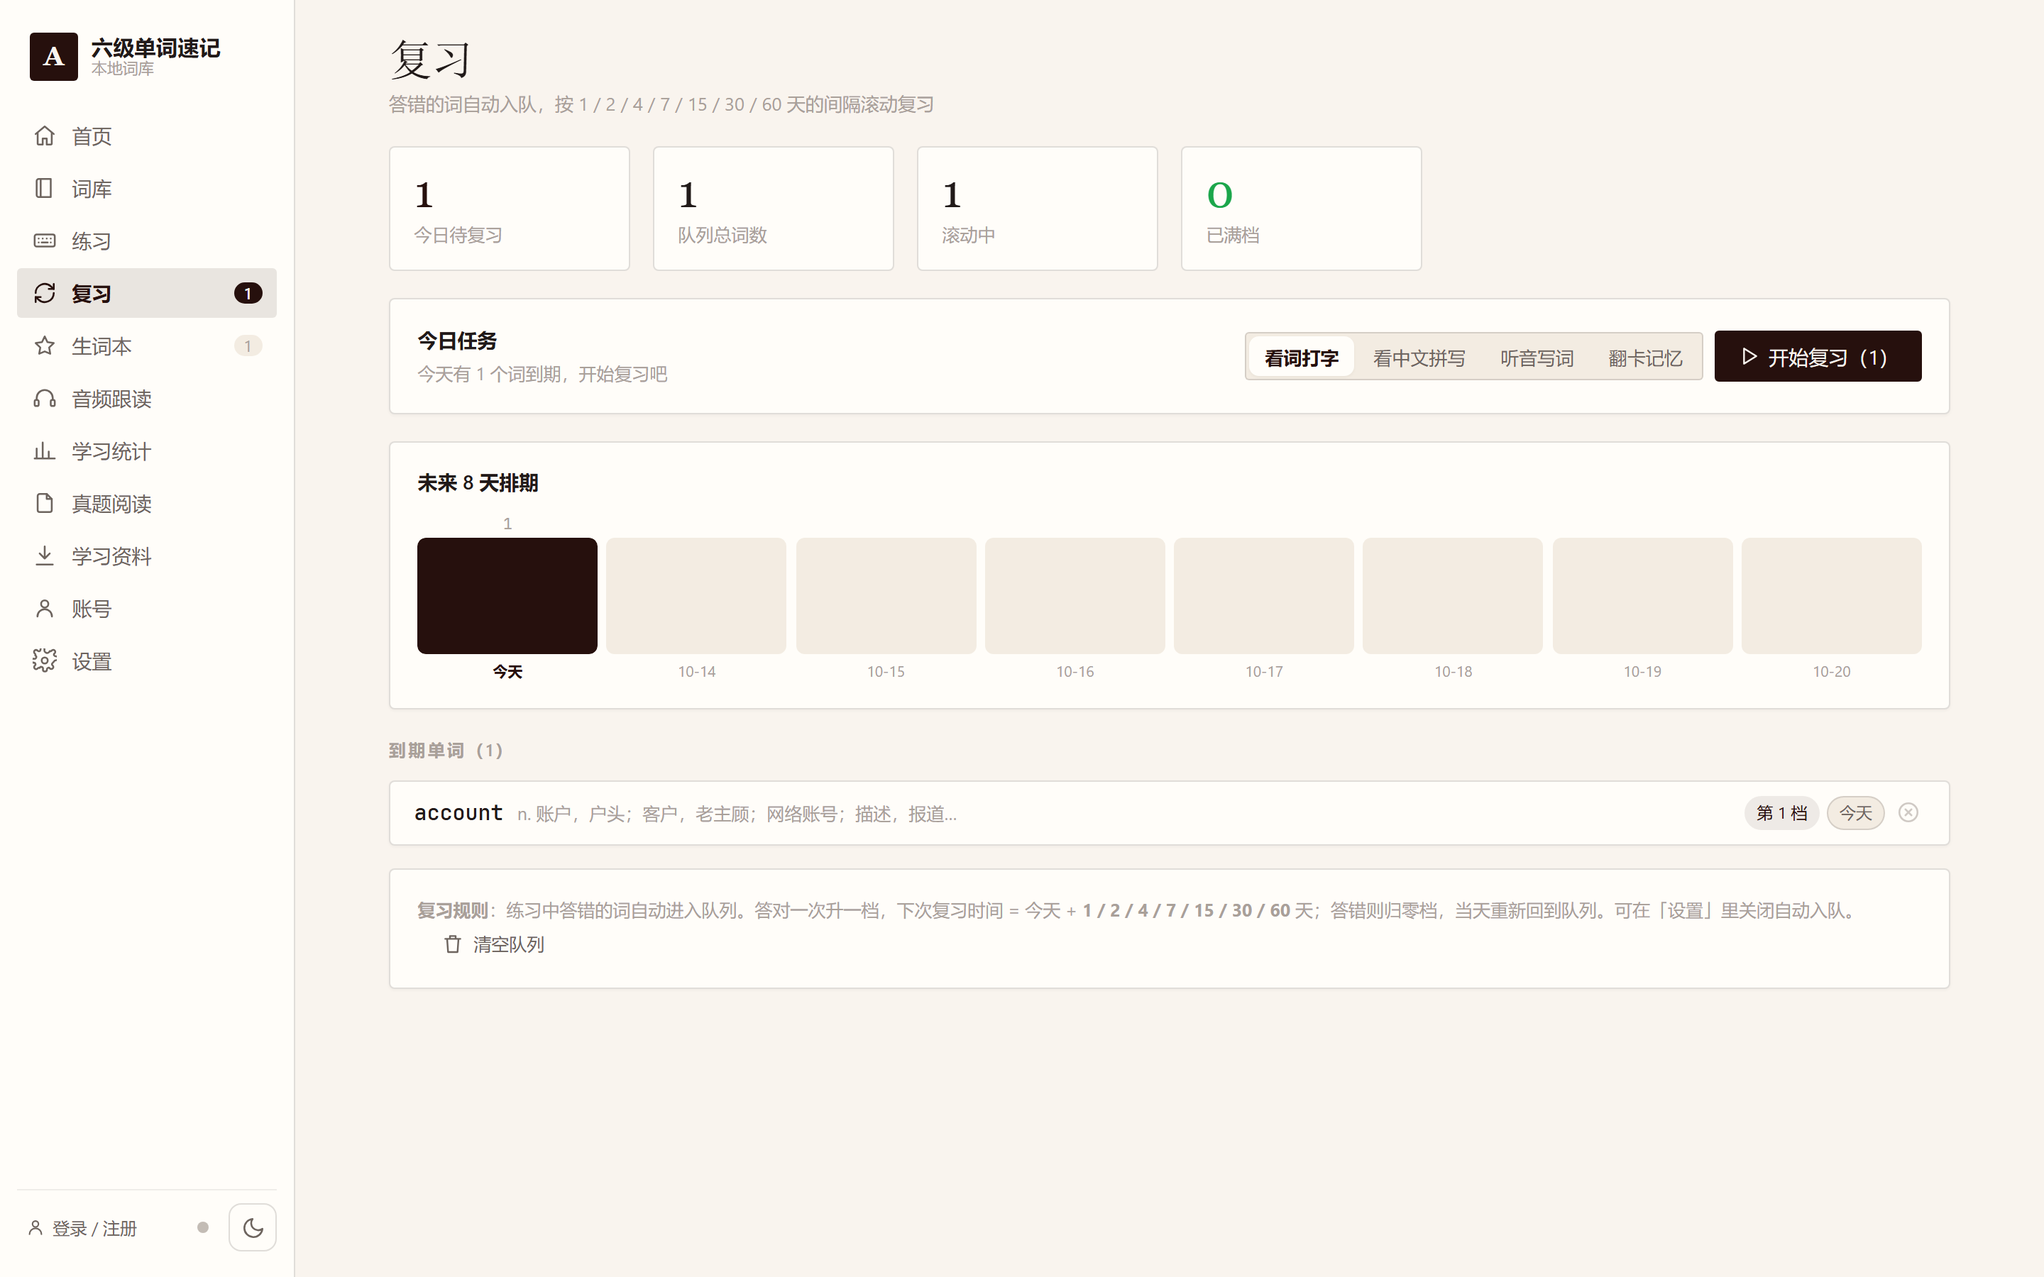
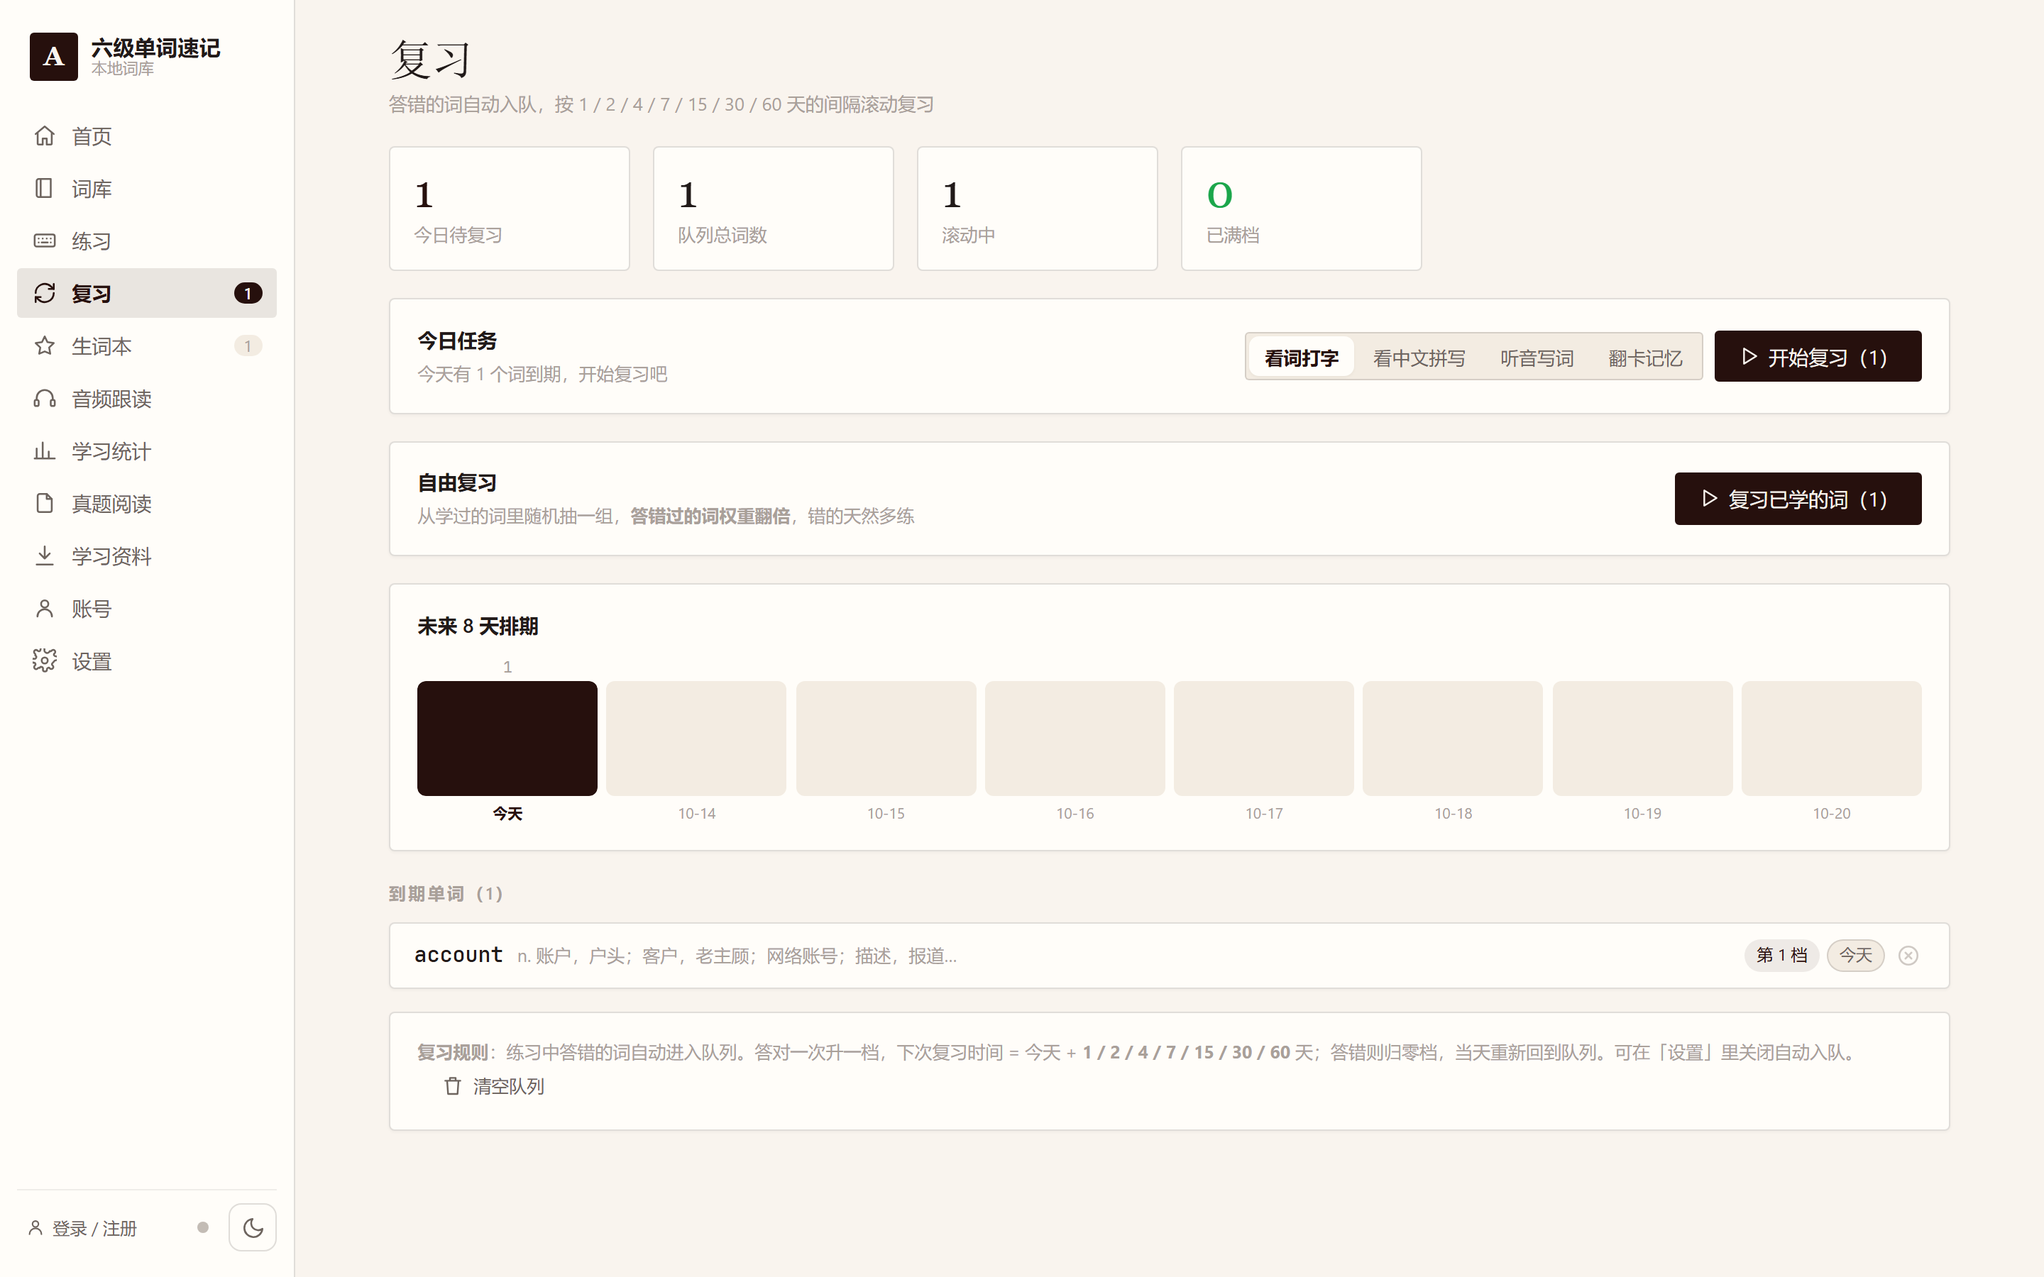
自动掌握机制：连对 3 次自动标记已掌握 + 词库进度未学计数 + 复习页自由复习已学的词（错词双倍权重）
- store.markRight 维护连对 streak，满 3 且开 autoMaster 设置则自动 master（答错/手动取消清零重来）
- 练习判分自动掌握时弹提示；设置页加开关
- 复习页两种状态各加「复习已学的词」入口 → /practice?src=collection&status=learned
- learned 池 = 全部已学(seen>0)的词，错过的词(w>0)进池两次 = 双倍权重，顺序模式按最近答错优先
- 词库进度条显示「已学 X / 未学 Y / P%」
- verify_practice 新增 I 段 11 项断言（77/77）

diff --git a/assets/js/views/srs.js b/assets/js/views/srs.js
@@ -29,6 +29,7 @@
 
     /* ---------- 空闲态 ---------- */
     if (!stats.total) {
+      var learnedN0 = TW.data.progressItems('learned').length;
       host.innerHTML = '<div class="wrap">' + TW.ui.pageHead('复习', '艾宾浩斯遗忘曲线复习队列') +
         '<div class="card card-pad">' + TW.ui.empty('复习队列还是空的') +
           '<div class="muted small" style="text-align:center;max-width:560px;margin:0 auto 1rem">' +
@@ -39,7 +40,17 @@
             '<button class="btn primary" id="sr-go-practice">' + TW.icon('play', 16) + ' 去练习</button>' +
             '<button class="btn" id="sr-import">' + TW.icon('download', 16) + ' 导入生词本里的错词</button>' +
           '</div>' +
-        '</div></div>';
+        '</div>' +
+        (learnedN0
+          ? '<div class="card card-pad" style="margin-top:1.2rem">' +
+              '<div class="row" style="justify-content:space-between;flex-wrap:wrap;gap:.6rem">' +
+                '<div><div class="card-title">自由复习</div>' +
+                  '<div class="small muted">从学过的词里随机抽一组，答错过的词权重翻倍</div></div>' +
+                '<button class="btn primary" id="sr-free-learned0">' + TW.icon('play', 16) +
+                  ' 复习已学的词（' + learnedN0 + '）</button>' +
+              '</div></div>'
+          : '') +
+        '</div>';
       bindEmpty(host);
       return;
     }
@@ -77,6 +88,28 @@
       return '<button data-mode="' + m.id + '" class="' + (mode === m.id ? 'active' : '') + '">' + m.name + '</button>';
     }).join('');
 
+    /* 自由复习：已学过的词（练过就算），错过的词双倍权重多练（sunfleeting 要求） */
+    var learnedN = TW.data.progressItems('learned').length;
+    var wrongN = 0;
+    Object.keys(TW.store.state.progress).forEach(function (id) {
+      var r = TW.store.state.progress[id];
+      if (r && r.w > 0) wrongN++;
+    });
+    var freeCard = '<div class="card card-pad" style="margin-bottom:1.2rem">' +
+      '<div class="row" style="justify-content:space-between;flex-wrap:wrap;gap:.6rem">' +
+        '<div>' +
+          '<div class="card-title">自由复习</div>' +
+          '<div class="small muted">从学过的词里随机抽一组' +
+            (wrongN ? '，<b>答错过的词权重翻倍</b>，错的天然多练' : '') + '</div>' +
+        '</div>' +
+        '<div class="row" style="gap:.5rem">' +
+          (learnedN
+            ? '<button class="btn primary" id="sr-free-learned">' + TW.icon('play', 16) +
+                ' 复习已学的词（' + learnedN + '）</button>'
+            : '<span class="small muted">还没有学过的词，先去练习吧</span>') +
+        '</div>' +
+      '</div></div>';
+
     host.innerHTML = '<div class="wrap">' +
       TW.ui.pageHead('复习', '答错的词自动入队，按 ' + intervals.join(' / ') + ' 天的间隔滚动复习') +
 
@@ -101,6 +134,8 @@
           '</div>' +
         '</div>' +
       '</div>' +
+
+      freeCard +
 
       '<div class="card card-pad" style="margin-bottom:1.2rem">' +
         '<div class="card-title" style="margin-bottom:.6rem">未来 8 天排期</div>' +
@@ -132,6 +167,10 @@
     if (start) start.addEventListener('click', function () {
       TW.app.go('/practice?src=srs&mode=' + mode);
     });
+    var freeBtn = TW.$('#sr-free-learned', host);
+    if (freeBtn) freeBtn.addEventListener('click', function () {
+      TW.app.go('/practice?src=collection&status=learned&mode=' + mode);
+    });
     var tog = TW.$('#sr-toggle', host);
     if (tog) tog.addEventListener('click', function () {
       TW.app.go('/srs?mode=' + mode + (showAll ? '' : '&all=1'));
@@ -153,6 +192,8 @@
   function bindEmpty(host) {
     var p = TW.$('#sr-go-practice', host);
     if (p) p.addEventListener('click', function () { TW.app.go('/practice'); });
+    var f0 = TW.$('#sr-free-learned0', host);
+    if (f0) f0.addEventListener('click', function () { TW.app.go('/practice?src=collection&status=learned'); });
     var im = TW.$('#sr-import', host);
     if (im) im.addEventListener('click', function () {
       var n = 0;

diff --git a/assets/js/views/practice.js b/assets/js/views/practice.js
@@ -17,7 +17,7 @@
   ];
 
   /** 生词本分组名称（"练习这组"时显示在顶部） */
-  var TAB_NAME = { wrong: '待攻克错词', fav: '我的收藏', master: '已掌握' };
+  var TAB_NAME = { wrong: '待攻克错词', fav: '我的收藏', master: '已掌握', learned: '已学的词' };
 
   /* 🔴 工具动作（发音 / 收藏 / 详解 / 看中文提示）：
      按钮点击与键盘快捷键**走同一条路径**（都是 toolbarAct），避免两套行为不一致。
@@ -146,7 +146,9 @@
       if (src === 'srs') {
         return TW.store.srs.dueList().map(function (r) { return { w: r.w, s: r.s, m: r.m }; });
       }
-      var tab = (cfg.status === 'all' || cfg.status === 'new') ? 'wrong' : cfg.status;
+      /* status=learned（复习页「自由复习已学的词」）映射到 progressItems 的 touched 池 */
+      var tab = (cfg.status === 'all' || cfg.status === 'new') ? 'wrong'
+              : cfg.status === 'learned' ? 'touched' : cfg.status;
       return TW.data.progressItems(tab).map(function (it) {
         return { w: it.word, s: it.book || '', m: TW.data.brief(it), id: it.id };
       });
@@ -163,7 +165,17 @@
       });
       // 生词本「待攻克错词」同样按最近答错排序（随机模式本来就要打乱，跳过）
       if (cfg.status === 'wrong' && cfg.order !== 'random') out = sortByRecentWrong(out);
+      /* 「已学的词」自由复习：错过的词（w>0）进池两次 = 双倍权重 ⇒ 错误的要多练
+         （sunfleeting 要求）。之后整体打乱再切 size，错词自然出现得更频繁。 */
+      if (cfg.status === 'learned') {
+        var heavy = [];
+        out.forEach(function (w) {
+          if ((TW.store.get(w.id) || {}).w > 0) heavy.push(w);
+        });
+        out = out.concat(heavy);
+      }
       if (cfg.order === 'random') out = TW.shuffle(out);
+      else out = sortByRecentWrong(out);   // 顺序模式也按「最近答错优先」，刚错的先见
       return cfg.size > 0 ? out.slice(0, cfg.size) : out;
     }
 
@@ -643,9 +655,13 @@
         st.lastOk = ok;
         var brief = TW.data.brief(w);
         if (ok) {
+          var wasMaster = (TW.store.get(w.id) || {}).master;
           st.correct++; TW.store.markRight(w.id);
           TW.store.srs.onResult(w.word, true, w.book, brief);
           TW.speech.sound.correct();
+          if (!wasMaster && (TW.store.get(w.id) || {}).master) {
+            TW.toast('连对 3 次，已自动标记「已掌握」🎉');
+          }
         } else {
           st.wrong++; TW.store.markWrong(w.id);
           TW.store.srs.onResult(w.word, false, w.book, brief);

diff --git a/assets/js/store.js b/assets/js/store.js
@@ -20,7 +20,8 @@
     speakMode: 'auto',     // 发音通道 auto 在线音频优先(失败回退系统语音) | audio 只用在线音频 | tts 只用系统语音
     keySound: true,        // 键盘音效
     autoNext: true,        // 答对后自动进入下一词
-    srsAuto: true          // 答错的词自动加入复习队列
+    srsAuto: true,         // 答错的词自动加入复习队列
+    autoMaster: true       // 连对 3 次自动标记「已掌握」（sunfleeting 要求的自动化）
   };
 
   var state = {
@@ -127,6 +128,11 @@
     }
   }
 
+  /** 答对一次：计数 +1，并维护「连对 streak」。连对达 AUTO_MASTER_STREAK（且开了设置）
+      自动标记已掌握 —— sunfleeting：学过了、复习对三次就该算掌握，别让人手动点。
+      streak 纯本地（master 标记本身走同步），答错/手动取消掌握都会归零。 */
+  var AUTO_MASTER_STREAK = 3;
+
   function markRight(id) {
     var r = rec(id);
     r.r++; r.seen++; r.ts = Date.now();
@@ -139,7 +145,13 @@
     var d = state.daily[today()] || (state.daily[today()] = { done: 0, right: 0 });
     d.done++; d.right++;
     touchDaily(today());
+    r.streak = (r.streak || 0) + 1;
+    var autoM = false;
+    if (state.settings.autoMaster !== false && r.streak >= AUTO_MASTER_STREAK && !r.master) {
+      r.master = true; r.autoM = 1; autoM = true;   // autoM 仅作展示标记（是否云同步无所谓）
+    }
     save(); emit('progress');
+    return autoM;   // 调用方（练习判分/详情页）据此弹「已自动掌握」提示
   }
 
   /* ---------- 「最近答错」顺序（纯本地，不参与云同步）----------
@@ -163,6 +175,7 @@
     r.w++; r.seen++; r.ts = Date.now();
     snapshot(r, id);
     touchProgress(id);   // 🔴 同 markRight：答案必须进增量同步包
+    r.streak = 0;        // 答错断连对：错误的要多练，重新连对才够格自动掌握
     noteWrong(id);
     var d = state.daily[today()] || (state.daily[today()] = { done: 0, right: 0 });
     d.done++;
@@ -176,7 +189,9 @@
   }
 
   function toggleMaster(id) {
-    var r = rec(id); r.master = !r.master; r.ts = Date.now(); snapshot(r, id); touchProgress(id); save(); emit('progress');
+    var r = rec(id); r.master = !r.master; r.ts = Date.now();
+    if (!r.master) r.streak = 0;   // 手动取消掌握 = 连对重新数（错词要多练几遍再自动掌握）
+    snapshot(r, id); touchProgress(id); save(); emit('progress');
     return r.master;
   }
 

diff --git a/assets/js/views/settings.js b/assets/js/views/settings.js
@@ -33,6 +33,7 @@
           switchRow('autoNext', '答对后自动进入下一词', '关闭后可自己按 Enter 继续') +
           switchRow('showPhonetic', '显示音标', '') +
           switchRow('srsAuto', '答错的词自动加入复习队列', '开启后按艾宾浩斯曲线安排复习；关闭则只在单词页手动加入') +
+          switchRow('autoMaster', '连对 3 次自动标记「已掌握」', '答错会断连对；手动取消掌握后需重新连对 3 次') +
         '</div>' +
 
         '<div class="card card-pad" style="margin-bottom:1rem">' +

diff --git a/assets/js/views/books.js b/assets/js/views/books.js
@@ -13,8 +13,9 @@
 
   function progressBar(stats, count) {
     var p = TW.pct(stats.master, count);
+    var unseen = Math.max(0, count - stats.touched);
     return '<div class="bk-bar"><div class="bk-meta">' +
-      '<span>已学 ' + stats.touched + '</span><span>' + p + '%</span></div>' +
+      '<span>已学 ' + stats.touched + '</span><span>未学 ' + unseen + '</span><span>' + p + '%</span></div>' +
       '<div class="progress-line ok"><i style="width:' + p + '%"></i></div></div>';
   }
 

diff --git a/assets/js/data.js b/assets/js/data.js
@@ -159,6 +159,7 @@
       if (tab === 'fav' && !p.fav) return;
       if (tab === 'master' && !p.master) return;
       if (tab === 'touched' && !(p.seen > 0)) return;
+      if (tab === 'learned' && !(p.seen > 0)) return;   // 复习页「自由复习已学的词」（同 touched）
       var w = byId[id];
       var word = (w && w.word) || p.word;
       if (!word) return;

diff --git a/tools/verify_practice.py b/tools/verify_practice.py
@@ -15,6 +15,10 @@
      （焦点在输入框时用 Alt+ 同字母，裸字母仍必须能正常输入）
   E) 「复习错词」从**最近答错的那个**开始（旧实现按词表顺序取，于是很久以前错的词
      永远排在最前，刚错的那个反而排在第 N 个）
+  I) 自动掌握 + 自由复习已学的词：
+     · 连对 3 次自动标记「已掌握」（答错断连对，要重新连对；设置可关）
+     · 复习页「自由复习」入口 → status=learned 池 = 所有已学(seen>0)的词
+     · 错过的词（w>0）进池两次 = 双倍权重，且最近答错的排最前（错误的要多练）
 
 用法（脚本会自己拉起静态服务）：
     NODE_OPTIONS= python -u tools/verify_practice.py
@@ -501,6 +505,98 @@ def main():
             goto("#/practice?book=%s&mode=flash&size=%d" % (BOOK, A_SIZE))
             pg.wait_for_timeout(300)
             check("清空进度后重新从第 1 个词开始", flash_word(pg), h_words[0])
+
+            # ================= I) 自动掌握 + 自由复习已学的词 =================
+            log("\n--- I) 连对 3 次自动标记「已掌握」+ 自由复习（错词加权多练）---")
+            goto("#/")
+            setup(pg)
+
+            # I-1 连对 3 次 → 自动掌握（markRight 返回值 = 本次是否刚触发）
+            i_ids = a_ids
+            res = pg.evaluate("""(id) => {
+              const a = TW.store.markRight(id);
+              const b = TW.store.markRight(id);
+              const c = TW.store.markRight(id);
+              return {a: a, b: b, c: c, master: (TW.store.get(id) || {}).master};
+            }""", i_ids[6])
+            check("连对第 1、2 次不触发自动掌握", [res["a"], res["b"]], [False, False])
+            check("连对第 3 次触发自动掌握（返回 autoM）", res["c"], True)
+            check("第 3 次连对后 master=true", res["master"], True)
+
+            # I-2 答错断连对：错 1 次后要**重新**连对满 3 次才掌握
+            res = pg.evaluate("""(id) => {
+              TW.store.markRight(id); TW.store.markRight(id);   // streak=2
+              TW.store.markWrong(id);                            // 答错 → streak 清零
+              const s0 = (TW.store.get(id) || {}).streak || 0;
+              TW.store.markRight(id); TW.store.markRight(id);    // 重新连对 2 次
+              const mid = (TW.store.get(id) || {}).master;
+              TW.store.markRight(id);                            // 第 3 次 → 掌握
+              return {s0: s0, mid: mid, master: (TW.store.get(id) || {}).master};
+            }""", i_ids[7])
+            check("答错后连对计数归零", res["s0"], 0)
+            check("重新连对 2 次还未掌握", res["mid"], False)
+            check("重新连对满 3 次才掌握", res["master"], True)
+
+            # I-3 设置里关掉 autoMaster 就不自动掌握
+            pg.evaluate("(id) => { const p = TW.store.get(id); if (p) { p.master = false; p.streak = 0; } }",
+                        i_ids[8])
+            pg.evaluate("() => TW.store.setSetting('autoMaster', false)")
+            res = pg.evaluate("""(id) => {
+              TW.store.markRight(id); TW.store.markRight(id); TW.store.markRight(id);
+              return (TW.store.get(id) || {}).master;
+            }""", i_ids[8])
+            check("关闭 autoMaster 后连对 3 次也不自动掌握", res, False)
+            pg.evaluate("() => TW.store.setSetting('autoMaster', true)")
+
+            # I-4 造「已学的词」池：6 个词 seen（前 4 个 w>0 = 错过），先清掉 I-1~3 的痕迹
+            pg.evaluate("""(ids) => {
+              [6, 7, 8].forEach(k => delete TW.store.state.progress[ids[k]]);
+              ids.slice(0, 6).forEach((id, i) => {
+                TW.store.state.progress[id] =
+                  {w: i < 4 ? 1 : 0, r: 1, seen: 1, fav: false, master: false, ts: Date.now()};
+              });
+              TW.store.state.recentWrong = [ids[0], ids[1], ids[2], ids[3]];  // ids[0] 最近错的
+              TW.store.save();
+            }""", i_ids)
+            check("progressItems('learned') = 已学(seen>0)的词数",
+                  pg.evaluate("(ids) => TW.data.progressItems('learned').length",
+                              i_ids[:6]), 6)
+
+            # I-5 复习页「自由复习」入口 → status=learned
+            # （无到期任务时渲染空闲态 = #sr-free-learned0；有任务 = #sr-free-learned，两个都要能点）
+            goto_fresh("#/srs")
+            check("复习页出现「复习已学的词」入口",
+                  pg.locator("#sr-free-learned, #sr-free-learned0").count(), 1)
+            check("入口显示已学词数（6）",
+                  pg.evaluate("""() => {
+                    const b = document.querySelector('#sr-free-learned') ||
+                              document.querySelector('#sr-free-learned0');
+                    return b ? b.innerText : '';
+                  }""").find("6") >= 0, True)
+            pg.click("#sr-free-learned, #sr-free-learned0")
+            pg.wait_for_timeout(900)
+            check("点击后进入 status=learned 的练习",
+                  "status=learned" in pg.evaluate("() => location.hash"), True)
+
+            # I-6 池构成：错过的 4 个词双倍权重（各 2 次）+ 干净的 2 个词（各 1 次）= 10 条；
+            #     顺序模式下最近答错的排最前。翻卡走完 10 个词，逐个记录统计出现次数。
+            goto_fresh("#/practice?src=collection&status=learned&mode=flash&size=10")
+            i_words = a_words
+            order_seen = []
+            for _ in range(10):
+                order_seen.append(flash_word(pg))
+                press("Enter")      # 翻面
+                press("Enter")      # 认识
+                press("Enter")      # 反馈继续
+            import collections
+            cnt = collections.Counter(order_seen)
+            check("错过的 4 个词各出现 2 次（双倍权重 = 错误的多练）",
+                  [cnt.get(w, 0) for w in i_words[:4]], [2, 2, 2, 2],
+                  extra=str(dict(cnt)))
+            check("没错过错的 2 个词各出现 1 次",
+                  [cnt.get(w, 0) for w in i_words[4:6]], [1, 1],
+                  extra=str(dict(cnt)))
+            check("最近答错的词排在自由复习最前", order_seen[0], i_words[0])
 
             # ================= E) 控制台 =================
             log("\n--- E) 控制台 ---")
